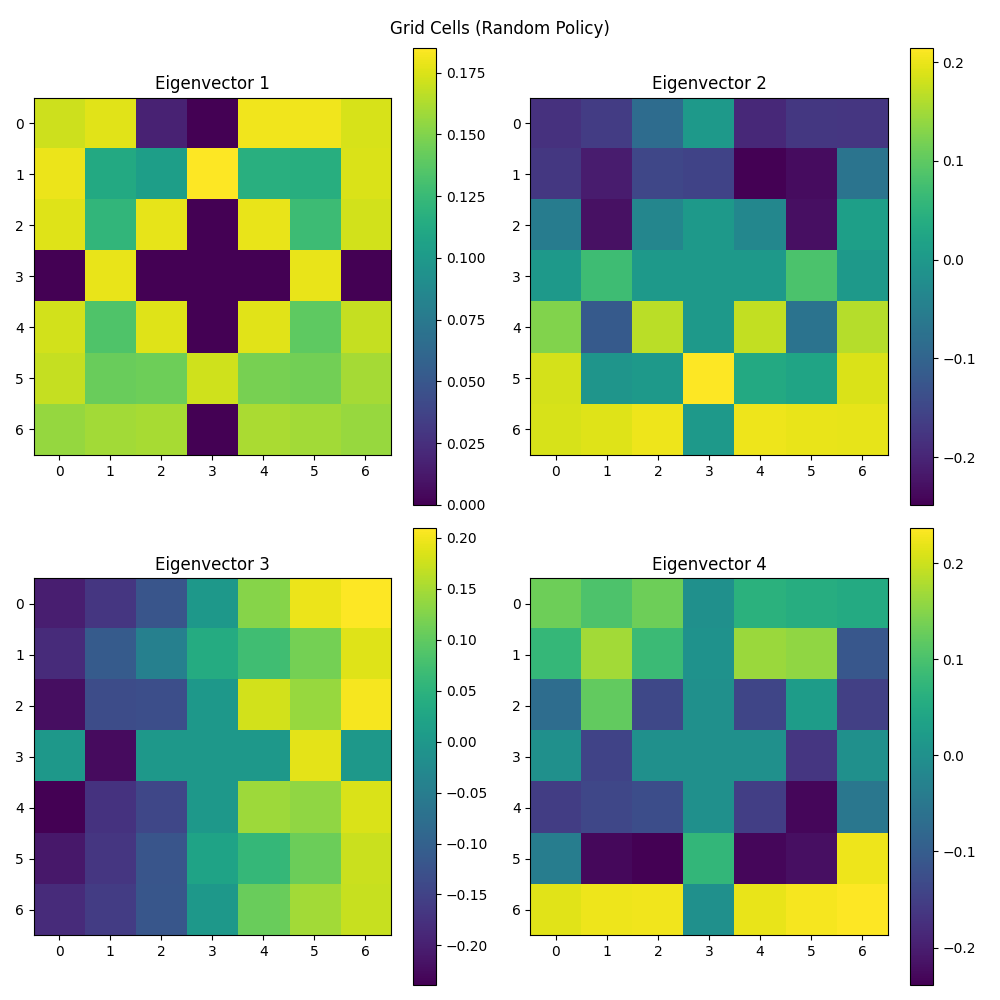
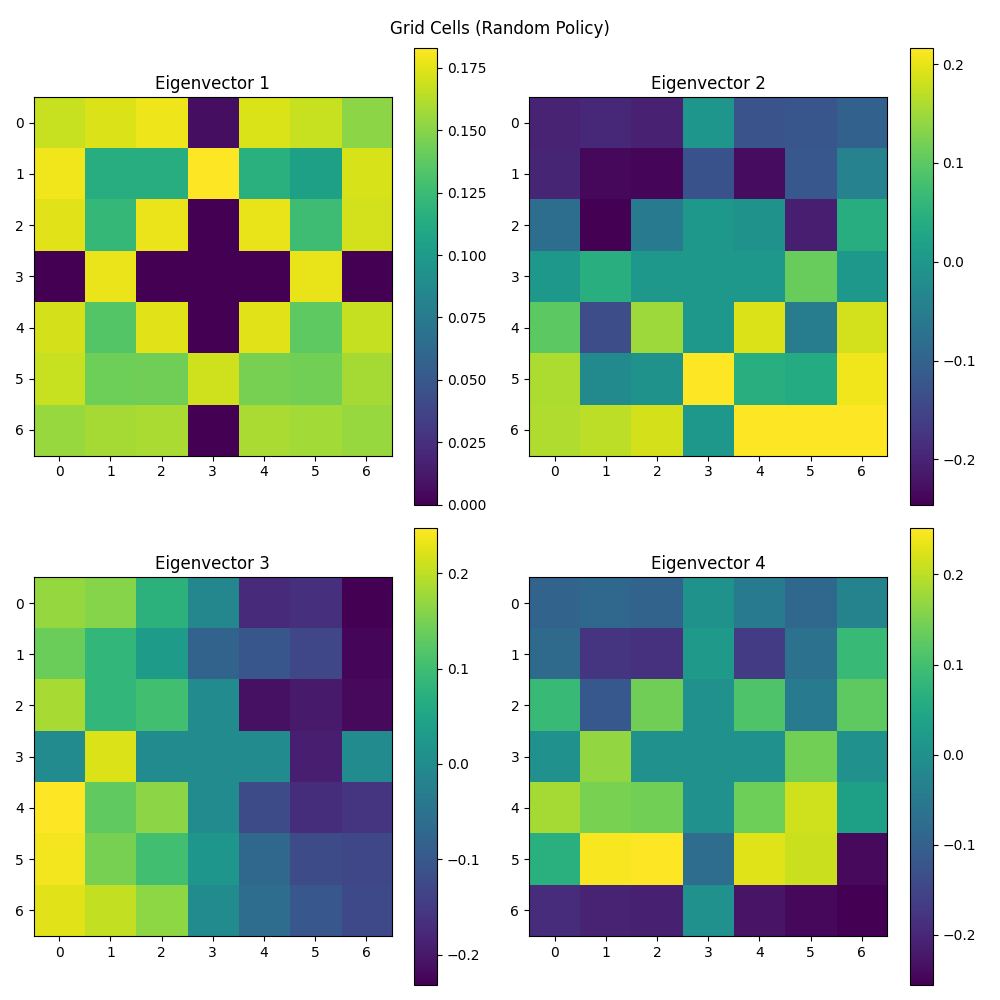
Made epsilon greedy random

diff --git a/SRGoalSlice.py b/SRGoalSlice.py
@@ -338,7 +338,7 @@ def get_goal_sequence(total_episodes, goal_size):
 # parameters for training
 train_episode_length = 50
 test_episode_length = 50
-episodes = 500000
+episodes = 20000
 gamma = 0.95
 lr = 5e-2
 
@@ -376,71 +376,71 @@ random_policy_test_experiences = []
 random_policy_test_lengths = []
 random_policy_td_errors = []
 
-# Training loop for random policy
-for goal_index in goals_with_targets:
-    goal_episodes = episodes_per_goal + (1 if remaining_episodes > 0 else 0)
-    remaining_episodes = max(0, remaining_episodes - 1)
+# # Training loop for random policy
+# for goal_index in goals_with_targets:
+#     goal_episodes = episodes_per_goal + (1 if remaining_episodes > 0 else 0)
+#     remaining_episodes = max(0, remaining_episodes - 1)
     
-    print(f"\nTraining on goal slice {goal_index} with random policy for {goal_episodes} episodes")
+#     print(f"\nTraining on goal slice {goal_index} with random policy for {goal_episodes} episodes")
     
-    epsilon = 1  # Set epsilon to 1 for random policy
+#     epsilon = 1  # Set epsilon to 1 for random policy
     
-    for episode in tqdm(range(goal_episodes), desc=f"Training goal slice {goal_index} (Random Policy)"):
-        # training phase
-        agent_start = random_valid_position(env)
-        goal_pos = env.state_to_point(np.where(agent.goals[goal_index] == 1)[0][0])
+#     for episode in tqdm(range(goal_episodes), desc=f"Training goal slice {goal_index} (Random Policy)"):
+#         # training phase
+#         agent_start = random_valid_position(env)
+#         goal_pos = env.state_to_point(np.where(agent.goals[goal_index] == 1)[0][0])
 
-        env.reset(agent_pos=agent_start, goal_pos=goal_pos)
-        state = env.observation
-        episodic_error = []
+#         env.reset(agent_pos=agent_start, goal_pos=goal_pos)
+#         state = env.observation
+#         episodic_error = []
 
-        for j in range(train_episode_length):
-            action = agent.sample_action(state, epsilon=epsilon)
-            reward = env.step(action)
-            next_state = env.observation
-            done = env.done
-            random_policy_experiences.append([state, action, next_state, reward])
-            experience = [state, action, next_state, reward, done]
+#         for j in range(train_episode_length):
+#             action = agent.sample_action(state, epsilon=epsilon)
+#             reward = env.step(action)
+#             next_state = env.observation
+#             done = env.done
+#             random_policy_experiences.append([state, action, next_state, reward])
+#             experience = [state, action, next_state, reward, done]
             
-            td_sr = agent.update_sr(experience)
-            td_w = agent.update_w(experience)
-            episodic_error.append(np.mean(np.abs(td_sr)))
+#             td_sr = agent.update_sr(experience)
+#             td_w = agent.update_w(experience)
+#             episodic_error.append(np.mean(np.abs(td_sr)))
             
-            state = next_state
-            if done:
-                break
+#             state = next_state
+#             if done:
+#                 break
         
-        random_policy_td_errors.append(np.mean(episodic_error))
+#         random_policy_td_errors.append(np.mean(episodic_error))
         
-        # Test phase
-        agent_start = random_valid_position(env)
-        env.reset(agent_pos=agent_start, goal_pos=goal_pos)
-        state = env.observation
-        for j in range(test_episode_length):
-            action = agent.sample_action(state, epsilon=test_epsilon)
-            reward = env.step(action)
-            state_next = env.observation
-            random_policy_test_experiences.append([state, action, state_next, reward])
-            state = state_next
-            if env.done:
-                break
-        random_policy_test_lengths.append(j)
+#         # Test phase
+#         agent_start = random_valid_position(env)
+#         env.reset(agent_pos=agent_start, goal_pos=goal_pos)
+#         state = env.observation
+#         for j in range(test_episode_length):
+#             action = agent.sample_action(state, epsilon=test_epsilon)
+#             reward = env.step(action)
+#             state_next = env.observation
+#             random_policy_test_experiences.append([state, action, state_next, reward])
+#             state = state_next
+#             if env.done:
+#                 break
+#         random_policy_test_lengths.append(j)
 
-    print("\nRandom policy training completed.")
-
-
-# After random policy training
-random_policy_agent = agent
+#     print("\nRandom policy training completed.")
 
 
-# Plot grid cells for random policy agent
-plot_grid_cells(random_policy_agent, env, "Grid Cells (Random Policy)")
+# # After random policy training
+# random_policy_agent = agent
 
-# Plot value functions for random policy agent
-plot_value_functions(random_policy_agent, env, "Value Functions (Random Policy)")
 
-# Plot raw SR matrix for random policy
-plot_raw_sr(random_policy_agent.M, env, "Random SR Matrix")
+# # Plot grid cells for random policy agent
+# plot_grid_cells(random_policy_agent, env, "Grid Cells (Random Policy)")
+
+# # Plot value functions for random policy agent
+# plot_value_functions(random_policy_agent, env, "Value Functions (Random Policy)")
+
+# # Plot raw SR matrix for random policy
+# plot_raw_sr(random_policy_agent.M, env, "Random SR Matrix")
 
 
 # --------------------Epsilon greedy Training Loop --------------------
@@ -460,12 +460,18 @@ test_experiences = []
 test_lengths = []
 lifetime_td_errors = []
 
+# Shuffle the order of goals with targets
+np.random.shuffle(goals_with_targets)
+
+# Calculate episodes per goal
+episodes_per_goal = episodes // len(goals_with_targets)
+remaining_episodes = episodes % len(goals_with_targets)
+
 # Ensure the videos directory exists
 if not os.path.exists('videos'):
     os.makedirs('videos')
 
 # Training Loop
-
 for goal_index in goals_with_targets:
     goal_episodes = episodes_per_goal + (1 if remaining_episodes > 0 else 0)
     remaining_episodes = max(0, remaining_episodes - 1)
@@ -488,7 +494,7 @@ for goal_index in goals_with_targets:
         state = env.observation
         episodic_error = []
 
-        for j in range(train_episode_length):
+        for step in range(train_episode_length):
             action = agent.sample_action(state, epsilon=epsilon)
             reward = env.step(action)
             next_state = env.observation
@@ -508,7 +514,7 @@ for goal_index in goals_with_targets:
 
         # Decay epsilon after each episode
         epsilon *= epsilon_decay
-        epsilon = max(epsilon, 0.01)  # minimum epsilon value
+        epsilon = max(epsilon, 0.05)  # minimum epsilon value
 
         # Test phase
         agent_start = random_valid_position(env)  
